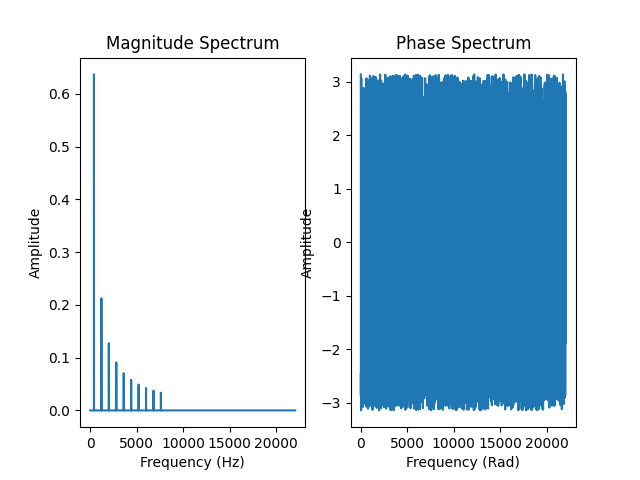
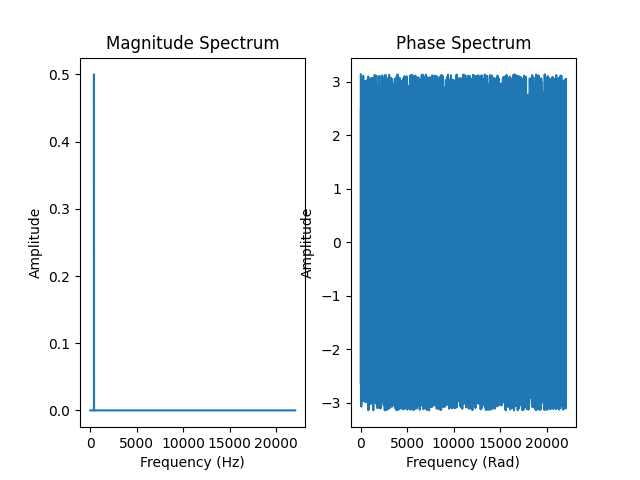
ass3 full submission

diff --git a/assignment3/q4.py b/assignment3/q4.py
@@ -33,7 +33,7 @@ def computeSpectrum(x, sample_rate_Hz):
     mag = np.abs(dft) / len(x)
     ph = np.angle(dft)
 
-    return mag[0:int(len(x)/2)], np.unwrap(ph[0:int(len(x)/2)]), dft.real, dft.imag, np.fft.fftfreq(x.size)[0:int(len(x)/2)]
+    return mag[0:int(len(x)/2)], ph[0:int(len(x)/2)], dft.real, dft.imag, np.fft.fftfreq(x.size)[0:int(len(x)/2)]
 
 def generateBlocks(x, sample_rate_Hz, block_size, hop_size): 
     x_b = np.zeros([block_size, int (len(x) / hop_size)+1])
@@ -42,7 +42,6 @@ def generateBlocks(x, sample_rate_Hz, block_size, hop_size):
     for block in range(0, len(x), hop_size):
         t = np.append(t, block)
         x_b[:,int(block/hop_size)] = pad_x[block:block+block_size] 
-        # print(block)
     
     return t, x_b
 
@@ -68,10 +67,9 @@ def mySpecgram(x,  block_size, hop_size, sampling_rate_Hz, window_type):
         mag_specgram[:,b] = mag
     
     plt.specgram(x ,window = window, NFFT=block_size, Fs = sampling_rate_Hz, 
-                noverlap= (block_size-hop_size))
-    plt.savefig('results/04-square-rect.png')
+                noverlap= int(block_size-hop_size))
+    plt.savefig('results/04-sine-rect.png')
     plt.show()
-    
     
     return fr, t, mag_specgram
 
@@ -85,4 +83,4 @@ if __name__ == "__main__":
     t2, sq = generateSquare(amp, sr_Hz, frq_Hz, lnth_secs, ph_rad)
     block_size = 2048
     hop_size = 1024
-    fv, tv, spectrum = mySpecgram(sq, block_size, hop_size, sr_Hz, 'rect')
+    fv, tv, spectrum = mySpecgram(sin, block_size, hop_size, sr_Hz, 'rect')

diff --git a/assignment3/q3.py b/assignment3/q3.py
@@ -60,6 +60,6 @@ if __name__ == "__main__":
     ax2.set_xlabel('Frequency (Rad)')
     ax2.set_ylabel('Amplitude')
     
-    plt.savefig('results/03-sinewave.png')
+    plt.savefig('results/03-squarewave.png')
     plt.show()
     
